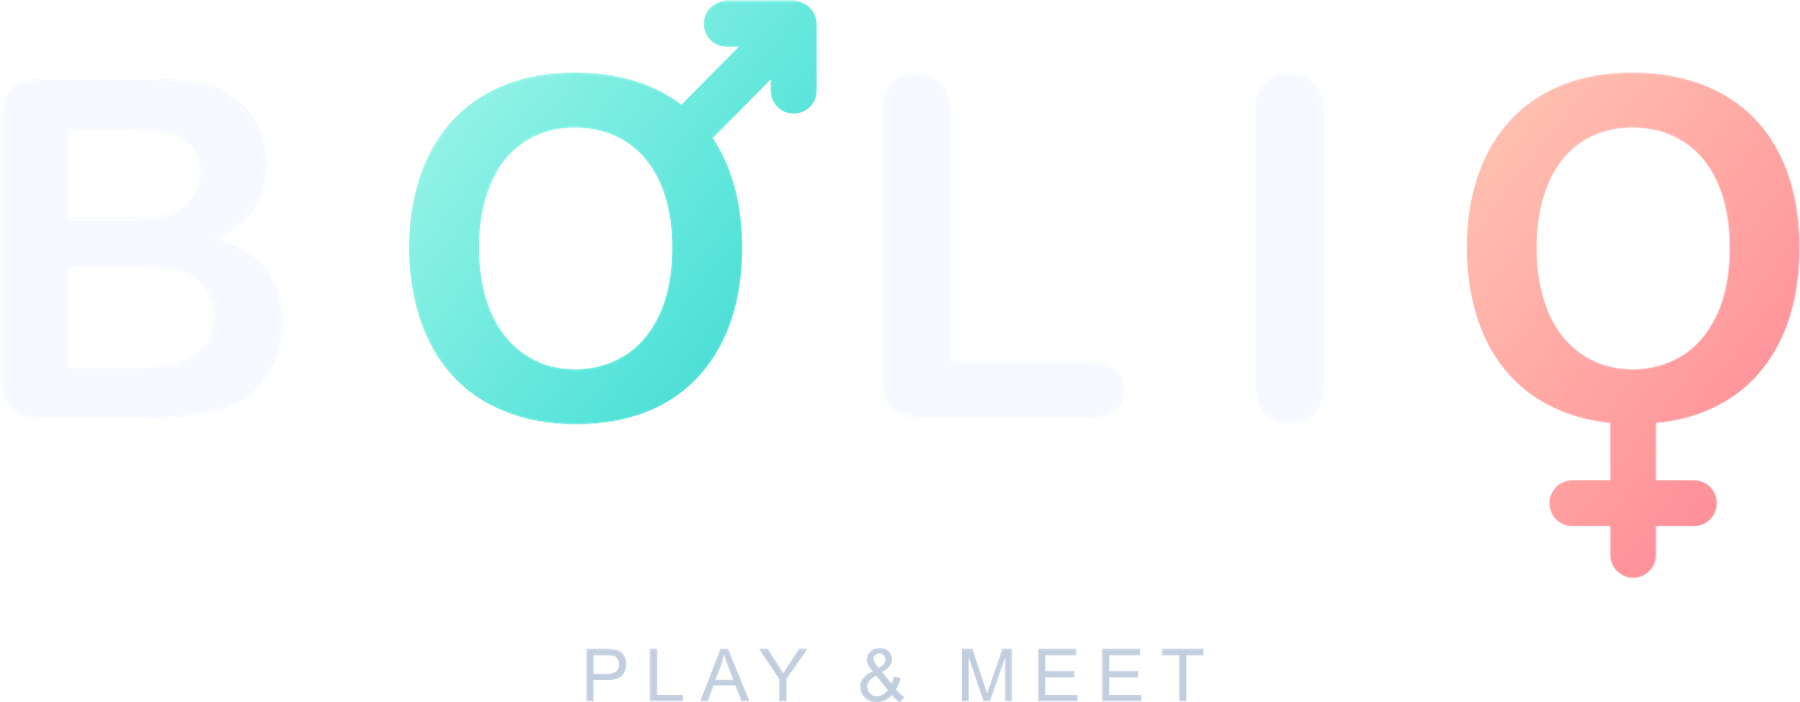
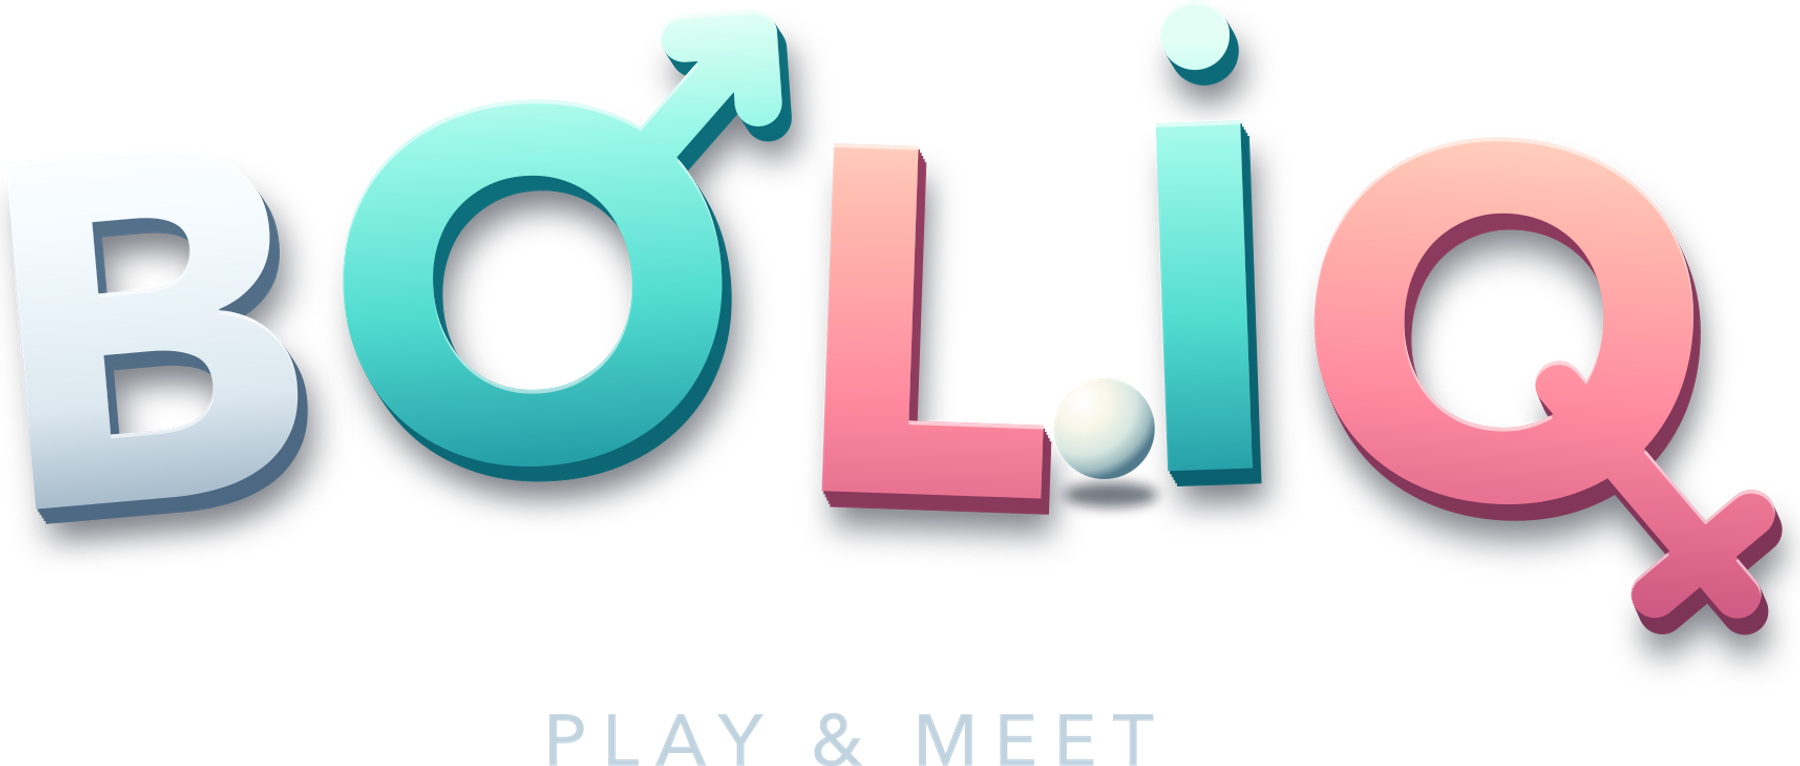
Update BOLIQ landing page with approved playful 3D wordmark

diff --git a/apps/boliq/index.html b/apps/boliq/index.html
@@ -1,2 +1,2 @@
 <!doctype html>
-<html lang="de"><head><meta charset="utf-8"><meta name="viewport" content="width=device-width,initial-scale=1"><title>BOLIQ</title><style>body{font:18px/1.65 system-ui,sans-serif;color:#182035;background:#f7f8fc;margin:0}main{max-width:760px;margin:auto;padding:32px 24px 80px}a{color:#4035ad;overflow-wrap:anywhere}nav{display:flex;gap:24px;flex-wrap:wrap}h1,h2{line-height:1.2}h2{margin-top:40px}section{margin-top:48px}footer{border-top:1px solid #ccd0dc;padding-top:24px}a:focus-visible{outline:3px solid #4035ad;outline-offset:4px}@media(prefers-color-scheme:dark){body{color:#f3f4fb;background:#111525}a{color:#b9b2ff}}.brand{display:flex;align-items:center;gap:24px;padding:28px;margin:28px 0;border-radius:28px;background:radial-gradient(ellipse at top left,#16435a,#0d223b 70%)}.brand-icon{width:88px;height:88px;border-radius:22px;flex:none}.brand h1{margin:0;flex:1;min-width:0;line-height:0}.brand-wordmark{display:block;width:100%;max-width:430px;height:auto}@media(max-width:480px){.brand{padding:20px;gap:16px}.brand-icon{width:64px;height:64px;border-radius:16px}}</style></head><body><main><nav aria-label="BOLIQ"><a href="/apps/boliq/">BOLIQ</a><a href="/apps/boliq/privacy/">Datenschutz / Privacy</a><a href="/apps/boliq/support/">Support</a><a href="/apps/boliq/terms/">Nutzung / Community</a></nav><header class="brand"><img class="brand-icon" src="/apps/boliq/icon.png" width="88" height="88" alt=""><h1><img class="brand-wordmark" src="/apps/boliq/wordmark.png" alt="BOLIQ – Play &amp; Meet"></h1></header><p>Play & Meet. Ein Spiel. Ein echtes Hallo.</p><p>Kennenlernen und lokaler Chat ab 16, getrennt nach 16–17 und 18+. Kontakte benötigen ab iOS/iPadOS 26 eine passende Apple-Altersfreigabe; ohne diese bleibt Solo. Beide entscheiden ausdrücklich, ob sie sichtbar werden und annehmen. Nach Hin- und Rückpass und beidseitiger Zustimmung gibt es in der Nähe und für 16–17 nur feste freundliche Gesprächsimpulse. Ein freiwilliges gemeinsames Symbol mit drei Ziffern hilft beim Erkennen vor Ort. Freie Texte sind nur zwischen zwei Erwachsenen in einer privaten Einladungsrunde möglich.</p><p>BOLIQ wird für iPhone und iPad mit iOS/iPadOS 18 oder neuer vorbereitet. Solo nutzt eine virtuelle Übungswand. Klassisch spielen zwei Geräte nebeneinander im lokalen WLAN. Wer sich freiwillig sichtbar schaltet, kann andere sichtbare Personen in der Nähe finden und nach beiderseitiger Annahme einen Pass beginnen. Private Handheld-Gruppen mit 2–8 Personen spielen in Play, Party oder Meet über eine lokale Bluetooth- oder WLAN-Verbindung.</p><p>Noch nicht im App Store veröffentlicht.</p><section lang="en"><h2>Pass it on.</h2><p>BOLIQ is being prepared for iPhone and iPad running iOS/iPadOS 18 or later. Practise with a virtual wall, play classic across two screens on local Wi-Fi, or opt in to nearby visibility and start a spontaneous local pass. Private groups of 2–8 play in Play, Party or Meet using a local Bluetooth or Wi-Fi connection. Contacts require iOS/iPadOS 26 or later and a suitable Apple age-sharing permission. Otherwise Solo remains available. Nearby contacts and ages 16–17 use fixed friendly prompts after a return pass and both consents. An optional shared symbol and three digits help you recognise each other in person. Custom text is restricted to private two-adult invitation rounds. Not yet released on the App Store.</p></section><footer><a href="https://pg-apps.github.io/impressum/">Impressum</a> · <a href="https://pg-apps.github.io/datenschutz/">Website-Datenschutz</a><p>© 2026 Philipp Graef</p></footer></main></body></html>
+<html lang="de"><head><meta charset="utf-8"><meta name="viewport" content="width=device-width,initial-scale=1"><title>BOLIQ</title><style>body{font:18px/1.65 system-ui,sans-serif;color:#182035;background:#f7f8fc;margin:0}main{max-width:760px;margin:auto;padding:32px 24px 80px}a{color:#4035ad;overflow-wrap:anywhere}nav{display:flex;gap:24px;flex-wrap:wrap}h1,h2{line-height:1.2}h2{margin-top:40px}section{margin-top:48px}footer{border-top:1px solid #ccd0dc;padding-top:24px}a:focus-visible{outline:3px solid #4035ad;outline-offset:4px}@media(prefers-color-scheme:dark){body{color:#f3f4fb;background:#111525}a{color:#b9b2ff}}.brand{display:flex;align-items:center;gap:24px;padding:28px;margin:28px 0;border-radius:28px;background:radial-gradient(ellipse at top left,#16435a,#0d223b 70%)}.brand-icon{width:88px;height:88px;border-radius:22px;flex:none}.brand h1{margin:0;flex:1;min-width:0;line-height:0}.brand-wordmark{display:block;width:100%;max-width:430px;height:auto}@media(max-width:480px){.brand{padding:20px;gap:16px}.brand-icon{width:64px;height:64px;border-radius:16px}}</style></head><body><main><nav aria-label="BOLIQ"><a href="/apps/boliq/">BOLIQ</a><a href="/apps/boliq/privacy/">Datenschutz / Privacy</a><a href="/apps/boliq/support/">Support</a><a href="/apps/boliq/terms/">Nutzung / Community</a></nav><header class="brand"><img class="brand-icon" src="/apps/boliq/icon.png" width="88" height="88" alt=""><h1><img class="brand-wordmark" src="/apps/boliq/wordmark.png?v=14" alt="BOLIQ – Play &amp; Meet"></h1></header><p>Play & Meet. Ein Spiel. Ein echtes Hallo.</p><p>Kennenlernen und lokaler Chat ab 16, getrennt nach 16–17 und 18+. Kontakte benötigen ab iOS/iPadOS 26 eine passende Apple-Altersfreigabe; ohne diese bleibt Solo. Beide entscheiden ausdrücklich, ob sie sichtbar werden und annehmen. Nach Hin- und Rückpass und beidseitiger Zustimmung gibt es in der Nähe und für 16–17 nur feste freundliche Gesprächsimpulse. Ein freiwilliges gemeinsames Symbol mit drei Ziffern hilft beim Erkennen vor Ort. Freie Texte sind nur zwischen zwei Erwachsenen in einer privaten Einladungsrunde möglich.</p><p>BOLIQ wird für iPhone und iPad mit iOS/iPadOS 18 oder neuer vorbereitet. Solo nutzt eine virtuelle Übungswand. Klassisch spielen zwei Geräte nebeneinander im lokalen WLAN. Wer sich freiwillig sichtbar schaltet, kann andere sichtbare Personen in der Nähe finden und nach beiderseitiger Annahme einen Pass beginnen. Private Handheld-Gruppen mit 2–8 Personen spielen in Play, Party oder Meet über eine lokale Bluetooth- oder WLAN-Verbindung.</p><p>Noch nicht im App Store veröffentlicht.</p><section lang="en"><h2>Pass it on.</h2><p>BOLIQ is being prepared for iPhone and iPad running iOS/iPadOS 18 or later. Practise with a virtual wall, play classic across two screens on local Wi-Fi, or opt in to nearby visibility and start a spontaneous local pass. Private groups of 2–8 play in Play, Party or Meet using a local Bluetooth or Wi-Fi connection. Contacts require iOS/iPadOS 26 or later and a suitable Apple age-sharing permission. Otherwise Solo remains available. Nearby contacts and ages 16–17 use fixed friendly prompts after a return pass and both consents. An optional shared symbol and three digits help you recognise each other in person. Custom text is restricted to private two-adult invitation rounds. Not yet released on the App Store.</p></section><footer><a href="https://pg-apps.github.io/impressum/">Impressum</a> · <a href="https://pg-apps.github.io/datenschutz/">Website-Datenschutz</a><p>© 2026 Philipp Graef</p></footer></main></body></html>
